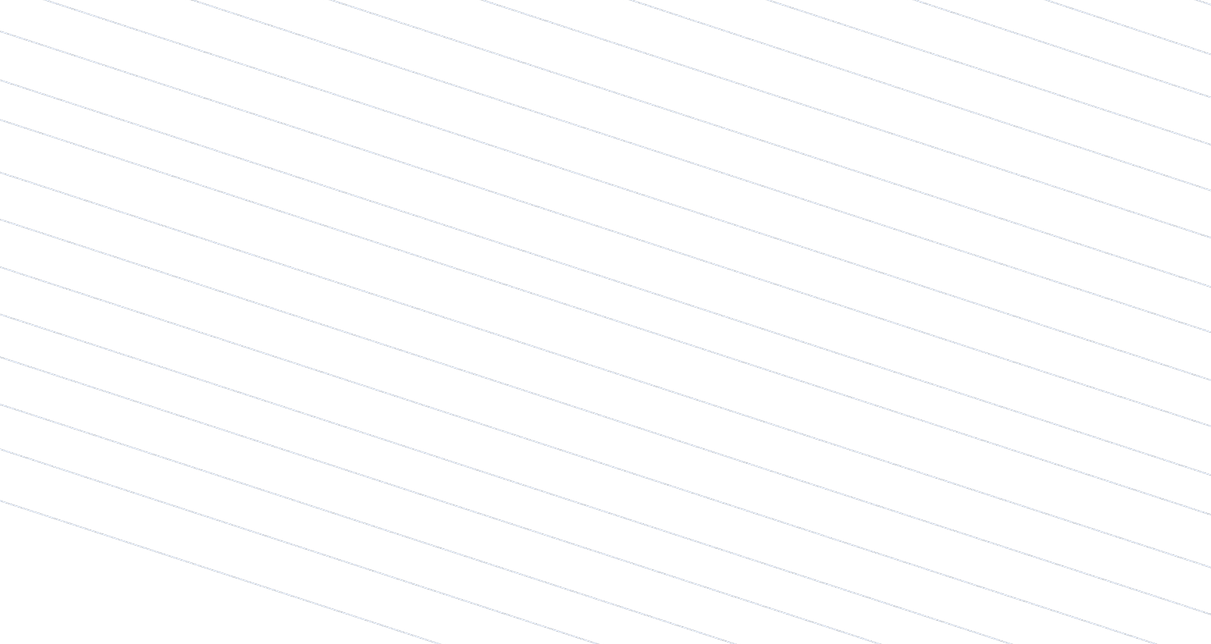
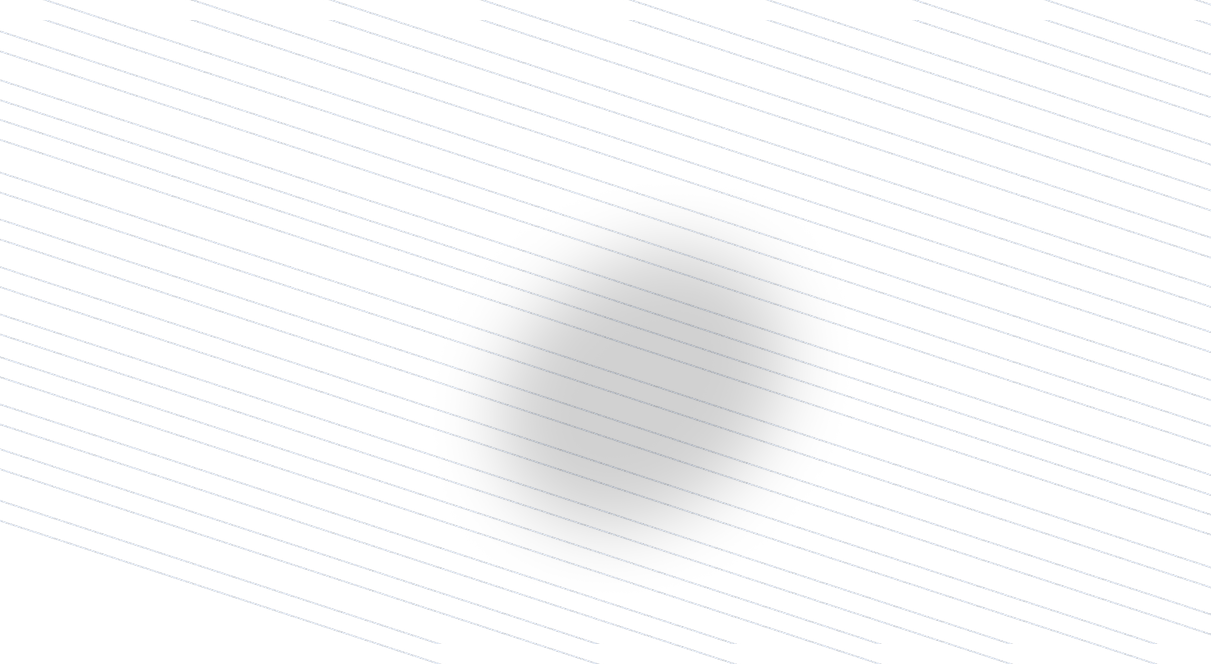
ui: Fix background lines

diff --git a/landing-page/components/sections/HowItWorksSection.tsx b/landing-page/components/sections/HowItWorksSection.tsx
@@ -45,100 +45,103 @@ export function HowItWorksSection() {
             earns real rewards for mastery.
           </p>
         </motion.div>
-
-        {/* Desktop Layout */}
-        <motion.div
-          initial={{ opacity: 0, scale: 0.95 }}
-          whileInView={{ opacity: 1, scale: 1 }}
-          transition={{ duration: 0.7, delay: 0.2 }}
-          viewport={{ once: true }}
-          className="relative hidden lg:grid grid-cols-5 grid-rows-3 gap-8 items-center text-black min-h-[760px] px-8"
+        <div
+          style={{ backgroundImage: 'url("/img/lines.png")' }}
+          className="relative"
         >
-          {/* Text Sections */}
-          <div className="col-span-1 row-start-2 text-right">
-            <h3 className="mb-1 text-2xl">{features.attack.title}</h3>
-            <p>{features.attack.description}</p>
-          </div>
-          <div className="col-span-1 col-start-5 row-start-1 text-left">
-            <h3 className="mb-1 text-2xl">{features.deploy.title}</h3>
-            <p>{features.deploy.description}</p>
-          </div>
-          <div className="col-span-1 col-start-5 row-start-3 text-left">
-            <h3 className="mb-1 text-2xl">{features.evolve.title}</h3>
-            <p>{features.evolve.description}</p>
-          </div>
-
-          {/* Central Image */}
-          <div className="col-span-3 col-start-2 row-span-3 flex items-center justify-center">
-            <Image
-              src="/img/threeCubes.png"
-              alt="Deploy, Attack, and Evolve your AI Sentinel"
-              width={288}
-              height={503}
-              className="object-contain"
-            />
-          </div>
-
-          <Image
-            src="/img/arrowLeft.png"
-            alt="Arrow pointing from Deploy text to the top cube"
-            width={258}
-            height={258}
-            className="absolute top-[17%] right-[26%] object-contain"
-          />
-          <Image
-            src="/img/arrowRight.png"
-            alt="Arrow pointing from Attack & Earn text to the middle cube"
-            width={258}
-            height={258}
-            className="absolute top-[56%] -translate-y-1/2 left-[23%] object-contain"
-          />
-          <Image
-            src="/img/arrowRightBottom.png"
-            alt="Arrow pointing from Evolve & Profit text to the bottom cube"
-            width={258}
-            height={258}
-            className="absolute bottom-[12%] right-[28%] object-contain"
-          />
-        </motion.div>
-
-        {/* Mobile Layout */}
-        <div className="lg:hidden flex flex-col gap-10 items-center">
           <motion.div
-            initial={{ opacity: 0, scale: 0.9 }}
+            initial={{ opacity: 0, scale: 0.95 }}
             whileInView={{ opacity: 1, scale: 1 }}
-            transition={{ duration: 0.8 }}
+            transition={{ duration: 0.7, delay: 0.2 }}
             viewport={{ once: true }}
-            className="relative w-full max-w-md"
+            className="relative hidden lg:grid grid-cols-5 grid-rows-3 gap-8 items-center text-black min-h-[760px] px-8"
           >
-            <Image
-              src="/img/threeCubes.png"
-              alt="Attack, Deploy, and Evolve features illustrated with cubes"
-              width={500}
-              height={500}
-              className="w-full h-auto"
-            />
-          </motion.div>
-          <motion.div
-            initial={{ opacity: 0, y: 20 }}
-            whileInView={{ opacity: 1, y: 0 }}
-            transition={{ duration: 0.8, delay: 0.2 }}
-            viewport={{ once: true }}
-            className="flex flex-col gap-8 text-center"
-          >
-            <div>
-              <h3 className="mb-1 text-2xl">{features.deploy.title}</h3>
-              <p>{features.deploy.description}</p>
-            </div>
-            <div>
+            {/* Text Sections */}
+            <div className="col-span-1 row-start-2 text-right">
               <h3 className="mb-1 text-2xl">{features.attack.title}</h3>
               <p>{features.attack.description}</p>
             </div>
-            <div>
+            <div className="col-span-1 col-start-5 row-start-1 text-left">
+              <h3 className="mb-1 text-2xl">{features.deploy.title}</h3>
+              <p>{features.deploy.description}</p>
+            </div>
+            <div className="col-span-1 col-start-5 row-start-3 text-left">
               <h3 className="mb-1 text-2xl">{features.evolve.title}</h3>
               <p>{features.evolve.description}</p>
             </div>
+
+            {/* Central Image */}
+            <div className="col-span-3 col-start-2 row-span-3 flex items-center justify-center">
+              <Image
+                src="/img/threeCubes.png"
+                alt="Deploy, Attack, and Evolve your AI Sentinel"
+                width={288}
+                height={503}
+                className="object-contain"
+              />
+            </div>
+
+            <Image
+              src="/img/arrowLeft.png"
+              alt="Arrow pointing from Deploy text to the top cube"
+              width={258}
+              height={258}
+              className="absolute top-[17%] right-[26%] object-contain"
+            />
+            <Image
+              src="/img/arrowRight.png"
+              alt="Arrow pointing from Attack & Earn text to the middle cube"
+              width={258}
+              height={258}
+              className="absolute top-[56%] -translate-y-1/2 left-[23%] object-contain"
+            />
+            <Image
+              src="/img/arrowRightBottom.png"
+              alt="Arrow pointing from Evolve & Profit text to the bottom cube"
+              width={258}
+              height={258}
+              className="absolute bottom-[12%] right-[28%] object-contain"
+            />
           </motion.div>
+
+          {/* Mobile Layout */}
+          <div className="lg:hidden flex flex-col gap-10 items-center">
+            <motion.div
+              initial={{ opacity: 0, scale: 0.9 }}
+              whileInView={{ opacity: 1, scale: 1 }}
+              transition={{ duration: 0.8 }}
+              viewport={{ once: true }}
+              className="relative w-full max-w-md"
+            >
+              <Image
+                src="/img/threeCubes.png"
+                alt="Attack, Deploy, and Evolve features illustrated with cubes"
+                width={500}
+                height={500}
+                className="w-full h-auto"
+              />
+            </motion.div>
+            <motion.div
+              initial={{ opacity: 0, y: 20 }}
+              whileInView={{ opacity: 1, y: 0 }}
+              transition={{ duration: 0.8, delay: 0.2 }}
+              viewport={{ once: true }}
+              className="flex flex-col gap-8 text-center"
+            >
+              <div>
+                <h3 className="mb-1 text-2xl">{features.deploy.title}</h3>
+                <p>{features.deploy.description}</p>
+              </div>
+              <div>
+                <h3 className="mb-1 text-2xl">{features.attack.title}</h3>
+                <p>{features.attack.description}</p>
+              </div>
+              <div>
+                <h3 className="mb-1 text-2xl">{features.evolve.title}</h3>
+                <p>{features.evolve.description}</p>
+              </div>
+            </motion.div>
+          </div>
         </div>
       </div>
     </section>
